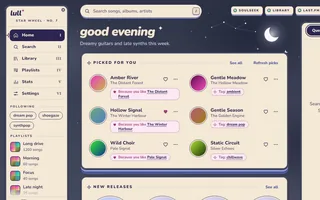
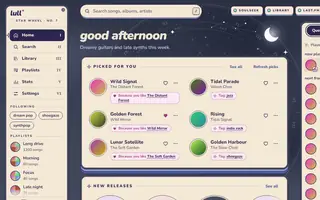
feat(web): Skydeck's sky is a whole star wheel and every page fills its window
The sky behind the app is now a planisphere (hour rim, month ring, constellations) drawn once in one ink as
an image, sized to the window and turning a quarter over the song, in the page's own layer. Home gets a star
finder card (slots/homeLead): the week as 24 hour spokes with the busiest hour starred and a needle at the song's
place, the queue as a constellation in a horizon window, and the date, shown from 1100 px of main width.

Fixes found in review at 1920 and 2560:
- Settings took 1180 px of a 2188 px page and left the right half empty: the section card now fills the page and
  sets its rows in as many columns as have 520 px (one on a laptop, two at 1920, three at 2560); Stats and Now
  Playing lift their width limits too, and Now Playing grows its wheel and gives the lyrics a column of their own
  from 1700 px.
- Shelves cut a cover or its words at the card edge: from 640 px a Home module now shows only as many whole tiles as its
  card has room for (92 px and up, so the covers stay in proportion with the rows), every other shelf wraps so nothing
  is hidden, and a phone shelf scrolls with a fade margin. The page also fades at its
  top edge under the header, so covers scrolling up are not sliced along it.
- The collapsed side panel stretched down the window as an empty strip; it is a card the height of its keys.
- The icon rail on a tablet stretched past its content the same way.
[…]

diff --git a/web/designs/skydeck/theme.css b/web/designs/skydeck/theme.css
@@ -51,6 +51,7 @@
     linear-gradient(180deg, #dcd5f7 0%, #e3daf7 38%, #efd9ec 66%, #f7dcd7 86%, #f9dfcb 100%);
   --sd-moon: url("assets/sky-day.svg");
   --sd-spark: url("assets/sparkle-pink.svg");
+  --sd-wheel-img: url("assets/sky-wheel-day.svg"); --sd-wheel-op: .2;
 }
 :root[data-design="skydeck"][data-theme="night"] {
   --stack-1: #8d9bd6; --stack-2: #4d5f9e;
@@ -69,11 +70,12 @@
     linear-gradient(180deg, #2f3446 0%, #393f53 35%, #414759 70%, #4a4a63 100%);
   --sd-moon: url("assets/sky-night.svg");
   --sd-spark: url("assets/sparkle-star.svg");
+  --sd-wheel-img: url("assets/sky-wheel-night.svg"); --sd-wheel-op: .2;
 }
 @media (max-width: 1099px) { :root[data-design="skydeck"] { --sd-moon-room: 130px; } }
 @media (max-width: 639px) { :root[data-design="skydeck"] { --sd-moon-room: 0px; } }
 /* every surface that is card: its own colours, so text on it pairs with it (the sky's are the page's) */
-:root[data-design="skydeck"] :is(.card, .rail, .ctx, .nowcol, .pbar, .mini, .tabbar, .sheet, .dialog, .menu, .popover, .toast, .sd-wheel, .sd-mini, .dk-strip, .dk-card) {
+:root[data-design="skydeck"] :is(.card, .rail, .ctx, .nowcol, .pbar, .mini, .tabbar, .sheet, .dialog, .menu, .popover, .toast, .sd-wheel, .sd-lead, .sd-mini, .dk-strip, .dk-card) {
   --bg: var(--cream); --bg-2: var(--cream-2); --fg: var(--sd-ink); --fg-2: var(--ink-2);
   --edge: var(--sd-ink); --link: var(--link-on-cream); --accent-ui: var(--sd-ink); --focus: var(--sd-pink); --heart: var(--sd-pink);
   --divider: var(--sd-faint); --seek-played: var(--sd-pink); --seek-buffered: #cdbfe8; --seek-line: var(--sd-ink);
@@ -92,8 +94,15 @@
    ===================================================================== */
 :root[data-design="skydeck"], :root[data-design="skydeck"] body { background: var(--sky); }
 :root[data-design="skydeck"] body { background: var(--sd-sky-bg) fixed; }
-:root[data-design="skydeck"] .sky-specks::before { opacity: .7; }
-:root[data-design="skydeck"][data-theme="night"] .sky-specks::before { opacity: 1; }
+/* the sky is a star wheel: a planisphere as big as the window lets it be, whole, printed in one ink behind everything and
+   turning a quarter round over the song (--song-pos, written on .sky-specks). It is the page's own layer, painted once;
+   a step of the song moves it, nothing else */
+:root[data-design="skydeck"] .sky-specks::before {
+  --d: min(calc(100vw - 48px), calc(100vh - var(--bar-h) - 24px), 1500px);
+  inset: auto; left: 50%; top: calc(50% - var(--bar-h) / 2); width: var(--d); height: var(--d); margin: calc(var(--d) / -2) 0 0 calc(var(--d) / -2);
+  background: var(--sd-wheel-img) center / contain no-repeat; opacity: var(--sd-wheel-op);
+  --song-pos: inherit; rotate: calc(var(--song-pos) * 90deg);
+}
 /* the stepped easings this design's loops use (components.css, Keyframes; scripts/loop-easings.mjs) */
 :root[data-design="skydeck"] {
   --loop-ease-in-out-70: linear(0 0%, 0 1.42857%, 0.0004 1.42857%, 0.0004 2.85714%, 0.0016 2.85714%, 0.0016 4.28571%, 0.0036 4.28571%, 0.0036 5.71429%, 0.0065 5.71429%, 0.0065 7.14286%, 0.0102 7.14286%, 0.0102 8.57143%, 0.0148 8.57143%, 0.0148 10%, 0.0203 10%, 0.0203 11.42857%, 0.0267 11.42857%, 0.0267 12.85714%, 0.0339 12.85714%, 0.0339 14.28571%, 0.0421 14.28571%, 0.0421 15.71429%, 0.0512 15.71429%, 0.0512 17.14286%, 0.0613 17.14286%, 0.0613 18.57143%, 0.0722 18.57143%, 0.0722 20%, 0.0841 20%, 0.0841 21.42857%, 0.0969 21.42857%, 0.0969 22.85714%, 0.1107 22.85714%, 0.1107 24.28571%, 0.1254 24.28571%, 0.1254 25.71429%, 0.1409 25.71429%, 0.1409 27.14286%, 0.1574 27.14286%, 0.1574 28.57143%, 0.1747 28.57143%, 0.1747 30%, 0.1929 30%, 0.1929 31.42857%, 0.212 31.42857%, 0.212 32.85714%, 0.2318 32.85714%, 0.2318 34.28571%, 0.2523 34.28571%, 0.2523 35.71429%, 0.2736 35.71429%, 0.2736 37.14286%, 0.2955 37.14286%, 0.2955 38.57143%, 0.3181 38.57143%, 0.3181 40%, 0.3412 40%, 0.3412 41.42857%, 0.3648 41.42857%, 0.3648 42.85714%, 0.3888 42.85714%, 0.3888 44.28571%, 0.4131 44.28571%, 0.4131 45.71429%, 0.4377 45.71429%, 0.4377 47.14286%, 0.4626 47.14286%, 0.4626 48.57143%, 0.4875 48.57143%, 0.4875 50%, 0.5125 50%, 0.5125 51.42857%, 0.5374 51.42857%, 0.5374 52.85714%, 0.5623 52.85714%, 0.5623 54.28571%, 0.5869 54.28571%, 0.5869 55.71429%, 0.6112 55.71429%, 0.6112 57.14286%, 0.6352 57.14286%, 0.6352 58.57143%, 0.6588 58.57143%, 0.6588 60%, 0.6819 60%, 0.6819 61.42857%, 0.7045 61.42857%, 0.7045 62.85714%, 0.7264 62.85714%, 0.7264 64.28571%, 0.7477 64.28571%, 0.7477 65.71429%, 0.7682 65.71429%, 0.7682 67.14286%, 0.788 67.14286%, 0.788 68.57143%, 0.8071 68.57143%, 0.8071 70%, 0.8253 70%, 0.8253 71.42857%, 0.8426 71.42857%, 0.8426 72.85714%, 0.8591 72.85714%, 0.8591 74.28571%, 0.8746 74.28571%, 0.8746 75.71429%, 0.8893 75.71429%, 0.8893 77.14286%, 0.9031 77.14286%, 0.9031 78.57143%, 0.9159 78.57143%, 0.9159 80%, 0.9278 80%, 0.9278 81.42857%, 0.9387 81.42857%, 0.9387 82.85714%, 0.9488 82.85714%, 0.9488 84.28571%, 0.9579 84.28571%, 0.9579 85.71429%, 0.9661 85.71429%, 0.9661 87.14286%, 0.9733 87.14286%, 0.9733 88.57143%, 0.9797 88.57143%, 0.9797 90%, 0.9852 90%, 0.9852 91.42857%, 0.9898 91.42857%, 0.9898 92.85714%, 0.9935 92.85714%, 0.9935 94.28571%, 0.9964 94.28571%, 0.9964 95.71429%, 0.9984 95.71429%, 0.9984 97.14286%, 0.9996 97.14286%, 0.9996 98.57143%, 1 98.57143%, 1 100%);
@@ -138,10 +147,18 @@
 @media (max-width: 639px) { :root[data-design="skydeck"] .main::before { display: none; } }
 /* the scrolling view dissolves into the sky at its bottom edge instead of slicing what runs on under the player bar;
    the fade is as tall as the view's bottom padding, so at the end of the page nothing is faded */
-@media (min-width: 640px) {
-  :root[data-design="skydeck"] .view {
-    -webkit-mask-image: linear-gradient(to bottom, #000 calc(100% - 40px), transparent);
-    mask-image: linear-gradient(to bottom, #000 calc(100% - 40px), transparent);
+/* and at its top edge, under the header: the page leaves 22 px of sky before its first line and fades in over the next 18,
+   so a cover scrolling up is never sliced flat along the header's foot (what is pinned in the view sticks at the padding's
+   foot, below the fade) */
+:root[data-design="skydeck"] .view {
+  padding-top: 22px;
+  -webkit-mask-image: linear-gradient(to bottom, transparent, #000 18px, #000 calc(100% - 40px), transparent);
+  mask-image: linear-gradient(to bottom, transparent, #000 18px, #000 calc(100% - 40px), transparent);
+}
+@media (max-width: 639px) {
+  :root[data-design="skydeck"] .view { padding-top: 16px; }
+  :root[data-design="skydeck"] .app[data-view="now"] .view {
+    padding-top: 0; -webkit-mask-image: linear-gradient(to bottom, #000 calc(100% - 40px), transparent); mask-image: linear-gradient(to bottom, #000 calc(100% - 40px), transparent);
   }
 }
 
@@ -160,6 +177,8 @@
 }
 /* while sound plays the pins' heads are lit pink, and rest again with it (:root[data-playing], written at play and pause) */
 :root[data-design="skydeck"][data-playing="true"] :is(.rail, .ctx) { --pin: #e58bbf; }
+/* the collapsed panel is a pinned card the height of its three keys, not a column down the window */
+:root[data-design="skydeck"] .app[data-panel="strip"] .ctx { align-self: start; height: auto; }
 :root[data-design="skydeck"] :is(.rail__head, .ctx__head) { background: none; box-shadow: none; border-bottom: 1.5px dotted var(--sd-soft); margin: 0 12px 6px; }
 :root[data-design="skydeck"] .rail__head { padding: 18px 8px 12px; flex-direction: column; align-items: flex-start; gap: 4px; }
 :root[data-design="skydeck"] .rail__head .brand { --wm-1: var(--sd-ink); --wm-spark: var(--sd-pink); }
@@ -197,6 +216,7 @@
 :root[data-design="skydeck"] .rail__foot { color: var(--ink-2); }
 /* the icon rail (tablet): no numerals, no printed name */
 @media (max-width: 1099px) {
+  :root[data-design="skydeck"] .rail { align-self: start; }
   :root[data-design="skydeck"] :is(.nav-item, .rail__head)::after { display: none; }
   :root[data-design="skydeck"] .rail__nav { padding: 4px 8px; }
   :root[data-design="skydeck"] .nav-item[aria-current="page"]::before { left: -9px; width: 14px; height: 14px; margin-top: -7px; }
@@ -310,6 +330,14 @@
   :root[data-design="skydeck"] :is(.card-head h2, .card .label-rule > h2) { letter-spacing: .04em; font-size: .75rem; gap: 5px; }
   :root[data-design="skydeck"] :is(.card-head h2, .card .label-rule > h2)::before { width: 12px; height: 12px; }
 }
+/* a card head with two links (Picked for you) on a phone: the title has its line, the links the next, never one link
+   left alone under a rule */
+@media (max-width: 639px) {
+  :root[data-design="skydeck"] .card-head:has(> .btn ~ .btn) { flex-wrap: wrap; row-gap: 2px; }
+  :root[data-design="skydeck"] .card-head:has(> .btn ~ .btn)::after { display: none; }
+  :root[data-design="skydeck"] .card-head:has(> .btn ~ .btn) > .card-head__title { flex: 1 0 100%; }
+  :root[data-design="skydeck"] .card-head:has(> .btn ~ .btn) > .btn:first-of-type { margin-left: -12px; }
+}
 :root[data-design="skydeck"] .chip-reason { border: 1px dashed var(--sd-pink); }
 /* chips (tags, follows, the equaliser's presets, Sources' formats) are printed slips of the card, ruled in ink, wherever
    they sit; a chip or filter pill that is on is inked in, as the menu's place and the segmented controls are */
@@ -381,6 +409,8 @@
 :root[data-design="skydeck"] .sys-bar { height: 10px; border-radius: 3px; background: var(--cream-2); box-shadow: inset 0 0 0 1px var(--sd-soft); }
 :root[data-design="skydeck"] .sys-bar > i { border-radius: 2px; background: var(--sd-ink); }
 :root[data-design="skydeck"] .sys-bars__row:first-child .sys-bar > i { background: var(--sd-pink); }
+/* the page takes the window it is given (the base stops it at 1180 px, which left half of a wide window empty) */
+:root[data-design="skydeck"] .sys-stats { max-width: 2200px; }
 /* five tiles in a row while each has room for its numeral, then 3 + 2, then two a row */
 @container main (max-width: 900px) {
   :root[data-design="skydeck"] .sys-tile__value { font-size: 1.875rem; }
@@ -398,6 +428,16 @@
   :root[data-design="skydeck"] .sys-tile__sub { white-space: nowrap; overflow: hidden; text-overflow: ellipsis; }
 }
 
+/* Settings uses the window it gets: the card grows with the page and sets its rows in as many columns as have room
+   (520 px and up each, so one on a laptop, two at 1920, three at 2560), read down each column; the sections' heads, the
+   design picker, the equaliser and the key lists keep the card's whole width. The menu stays beside it, pinned. */
+:root[data-design="skydeck"] .sys-settings { max-width: 2200px; }
+:root[data-design="skydeck"] .sys-settings .sys-section { columns: 520px; column-gap: 64px; }
+:root[data-design="skydeck"] .sys-settings .sys-section > :is(.label-rule, .sys-keys__groups, .sys-row:has(> .sys-row__ctl > .sys-designs)) { column-span: all; }
+:root[data-design="skydeck"] .sys-settings .sys-section :is(.sys-row, .sys-group, .sys-note, .eqp, .sys-packs > li, .hub-lib, .sys-usage, .inset) { break-inside: avoid; }
+:root[data-design="skydeck"] .sys-settings .sys-section .sys-group { break-after: avoid; }
+:root[data-design="skydeck"] .sys-settings .sys-designs { grid-template-columns: repeat(auto-fit, minmax(220px, 1fr)); }
+
 /* Settings: its menu inked like the rail's; the design picker's chosen card inked too */
 :root[data-design="skydeck"] .sys-nav a[aria-current="page"] { background: var(--sd-ink); color: var(--cream); border-color: var(--sd-ink); box-shadow: none; }
 :root[data-design="skydeck"] .sys-design[aria-checked="true"] { background: var(--cream-2); border-color: var(--sd-ink); box-shadow: 0 0 0 1.5px var(--sd-ink); }
@@ -413,6 +453,133 @@
   :root[data-design="skydeck"] .disc-home .disc-starter__play { width: 36px; height: 36px; }
 }
 :root[data-design="skydeck"] .disc-hello { margin-bottom: var(--sp-4); }
+/* shelves show only whole round windows, never one cut by the card's edge. From 640 px a shelf is a grid that fits as many
+   as the card has room for: a Home module sets its columns by its own width and shows that many tiles (its head has
+   See all or History for the rest), every other shelf (artist, album, search, library) wraps, so nothing is hidden;
+   tiles are 92 px and up, so the covers stay in proportion with the rows round them. On a phone a shelf scrolls, and
+   the last tile fades out along a margin of its own to say there is more that way */
+@media (min-width: 640px) {
+  :root[data-design="skydeck"] .shelf:not(.disc-shelf--grid) {
+    grid-auto-flow: row; grid-template-columns: repeat(auto-fill, minmax(116px, 1fr)); grid-auto-columns: auto; gap: var(--sp-4) var(--sp-5);
+    overflow: visible; scroll-snap-type: none; padding-right: 0;
+  }
+  :root[data-design="skydeck"] .disc-mod .disc-shelf:not(.disc-shelf--grid) { grid-template-columns: repeat(2, minmax(0, 1fr)); }
+  @container section (max-width: 357px) { :root[data-design="skydeck"] .disc-mod .disc-shelf:not(.disc-shelf--grid) { grid-template-columns: repeat(2, minmax(0, 1fr)); } :root[data-design="skydeck"] .disc-mod .disc-shelf:not(.disc-shelf--grid) > :nth-child(n+3) { display: none; } }
+  @container section (min-width: 358px) and (max-width: 465px) { :root[data-design="skydeck"] .disc-mod .disc-shelf:not(.disc-shelf--grid) { grid-template-columns: repeat(3, minmax(0, 1fr)); } :root[data-design="skydeck"] .disc-mod .disc-shelf:not(.disc-shelf--grid) > :nth-child(n+4) { display: none; } }
+  @container section (min-width: 466px) and (max-width: 573px) { :root[data-design="skydeck"] .disc-mod .disc-shelf:not(.disc-shelf--grid) { grid-template-columns: repeat(4, minmax(0, 1fr)); } :root[data-design="skydeck"] .disc-mod .disc-shelf:not(.disc-shelf--grid) > :nth-child(n+5) { display: none; } }
+  @container section (min-width: 574px) and (max-width: 681px) { :root[data-design="skydeck"] .disc-mod .disc-shelf:not(.disc-shelf--grid) { grid-template-columns: repeat(5, minmax(0, 1fr)); } :root[data-design="skydeck"] .disc-mod .disc-shelf:not(.disc-shelf--grid) > :nth-child(n+6) { display: none; } }
+  @container section (min-width: 682px) and (max-width: 789px) { :root[data-design="skydeck"] .disc-mod .disc-shelf:not(.disc-shelf--grid) { grid-template-columns: repeat(6, minmax(0, 1fr)); } :root[data-design="skydeck"] .disc-mod .disc-shelf:not(.disc-shelf--grid) > :nth-child(n+7) { display: none; } }
+  @container section (min-width: 790px) and (max-width: 897px) { :root[data-design="skydeck"] .disc-mod .disc-shelf:not(.disc-shelf--grid) { grid-template-columns: repeat(7, minmax(0, 1fr)); } :root[data-design="skydeck"] .disc-mod .disc-shelf:not(.disc-shelf--grid) > :nth-child(n+8) { display: none; } }
+  @container section (min-width: 898px) and (max-width: 1005px) { :root[data-design="skydeck"] .disc-mod .disc-shelf:not(.disc-shelf--grid) { grid-template-columns: repeat(8, minmax(0, 1fr)); } :root[data-design="skydeck"] .disc-mod .disc-shelf:not(.disc-shelf--grid) > :nth-child(n+9) { display: none; } }
+  @container section (min-width: 1006px) and (max-width: 1113px) { :root[data-design="skydeck"] .disc-mod .disc-shelf:not(.disc-shelf--grid) { grid-template-columns: repeat(9, minmax(0, 1fr)); } :root[data-design="skydeck"] .disc-mod .disc-shelf:not(.disc-shelf--grid) > :nth-child(n+10) { display: none; } }
+  @container section (min-width: 1114px) { :root[data-design="skydeck"] .disc-mod .disc-shelf:not(.disc-shelf--grid) { grid-template-columns: repeat(10, minmax(0, 1fr)); }  }
+}
+@media (max-width: 639px) {
+  :root[data-design="skydeck"] .disc-shelf:not(.disc-shelf--grid) {
+    padding-right: 48px; scroll-padding-right: 48px;
+    -webkit-mask-image: linear-gradient(to right, #000 calc(100% - 48px), transparent);
+    mask-image: linear-gradient(to right, #000 calc(100% - 48px), transparent);
+  }
+}
+
+/* Home's star finder (slots/homeLead.html): where the page is wide, the greeting and the finder share the top row, the
+   finder between the greeting and the sun or moon; narrower, the greeting has the row and the finder is not drawn */
+.disc-lead { display: none; }
+@container main (min-width: 1100px) {
+  :root[data-design="skydeck"] .disc-home { display: grid; grid-template-columns: max-content minmax(0, 1fr); column-gap: var(--sp-6); align-items: start; }
+  :root[data-design="skydeck"] .disc-home > .disc-hello { grid-column: 1; padding-right: 0; }
+  :root[data-design="skydeck"] .disc-home > .disc-modules { grid-column: 1 / -1; }
+  :root[data-design="skydeck"] .disc-home > .disc-lead { display: block; grid-column: 2; grid-row: 1; margin: 6px var(--sd-moon-room) var(--sp-5) 0; min-width: 0; container: sdlead / inline-size; }
+  :root[data-design="skydeck"] .disc-home > .disc-hello:only-child { grid-column: 1 / -1; padding-right: var(--sd-moon-room); }
+}
+:root[data-design="skydeck"] .sd-lead {
+  --song-pos: inherit; display: grid; grid-template-columns: 112px minmax(0, 1fr) minmax(150px, 230px) auto; align-items: center; gap: 4px 20px;
+  min-height: 116px; padding: 10px 24px 10px 14px; background: var(--cream); color: var(--sd-ink); border: 1.5px solid var(--sd-ink); border-radius: 26px;
+  box-shadow: var(--sd-rule), var(--sd-lift);
+}
+/* the week as the hour rim: 24 spokes from a ring, the busiest hour a star on its tip */
+:root[data-design="skydeck"] .sd-lead__dial { position: relative; width: 100px; height: 100px; justify-self: center; --song-pos: inherit; }
+:root[data-design="skydeck"] .sd-lead__dial::before {
+  content: ""; position: absolute; inset: 0; border-radius: 50%; box-shadow: inset 0 0 0 1.5px var(--sd-ink), inset 0 0 0 4px var(--cream), inset 0 0 0 5px var(--sd-soft);
+  background: repeating-conic-gradient(from -.4deg, var(--sd-ink) 0 .8deg, transparent .8deg 15deg);
+  -webkit-mask: radial-gradient(circle, transparent 0 41px, #000 41.5px 46px, transparent 46.5px); mask: radial-gradient(circle, transparent 0 41px, #000 41.5px 46px, transparent 46.5px);
+}
+/* the needle points at where the song is: a round of the dial is the song */
+:root[data-design="skydeck"] .sd-lead__dial::after {
+  content: ""; position: absolute; left: calc(50% - 1px); bottom: 50%; width: 2px; height: 42px; background: var(--sd-pink); transform-origin: 50% 100%;
+  --song-pos: inherit; rotate: calc(var(--song-pos) * 1turn);
+}
+:root[data-design="skydeck"] .sd-lead__hours { position: absolute; inset: 0; --song-pos: inherit; }
+/* the week not read yet: the spokes rest as stubs round the hub */
+:root[data-design="skydeck"] .sd-lead__hours::before {
+  content: ""; position: absolute; inset: 0; background: repeating-conic-gradient(from -.7deg, var(--sd-soft) 0 1.4deg, transparent 1.4deg 15deg);
+  -webkit-mask: radial-gradient(circle, transparent 0 13px, #000 13.5px 20px, transparent 20.5px); mask: radial-gradient(circle, transparent 0 13px, #000 13.5px 20px, transparent 20.5px);
+}
+:root[data-design="skydeck"] .sd-lead__hours i {
+  position: absolute; left: calc(50% - 1.5px); bottom: calc(50% + 14px); width: 3px; height: calc(3px + var(--v) * 22px); border-radius: 2px; background: var(--sd-ink);
+  transform-origin: 50% calc(100% + 14px);
+}
+:root[data-design="skydeck"] .sd-lead__hours i.is-peak { background: var(--sd-pink); }
+:root[data-design="skydeck"] .sd-lead__hours i.is-peak::after { content: ""; position: absolute; left: -6px; top: -14px; width: 15px; height: 15px; background: var(--sd-star) center / contain no-repeat; }
+:root[data-design="skydeck"] .sd-lead__hours i:nth-child(1) { rotate: 0deg; }
+:root[data-design="skydeck"] .sd-lead__hours i:nth-child(2) { rotate: 15deg; }
+:root[data-design="skydeck"] .sd-lead__hours i:nth-child(3) { rotate: 30deg; }
+:root[data-design="skydeck"] .sd-lead__hours i:nth-child(4) { rotate: 45deg; }
+:root[data-design="skydeck"] .sd-lead__hours i:nth-child(5) { rotate: 60deg; }
+:root[data-design="skydeck"] .sd-lead__hours i:nth-child(6) { rotate: 75deg; }
+:root[data-design="skydeck"] .sd-lead__hours i:nth-child(7) { rotate: 90deg; }
+:root[data-design="skydeck"] .sd-lead__hours i:nth-child(8) { rotate: 105deg; }
+:root[data-design="skydeck"] .sd-lead__hours i:nth-child(9) { rotate: 120deg; }
+:root[data-design="skydeck"] .sd-lead__hours i:nth-child(10) { rotate: 135deg; }
+:root[data-design="skydeck"] .sd-lead__hours i:nth-child(11) { rotate: 150deg; }
+:root[data-design="skydeck"] .sd-lead__hours i:nth-child(12) { rotate: 165deg; }
+:root[data-design="skydeck"] .sd-lead__hours i:nth-child(13) { rotate: 180deg; }
+:root[data-design="skydeck"] .sd-lead__hours i:nth-child(14) { rotate: 195deg; }
+:root[data-design="skydeck"] .sd-lead__hours i:nth-child(15) { rotate: 210deg; }
+:root[data-design="skydeck"] .sd-lead__hours i:nth-child(16) { rotate: 225deg; }
+:root[data-design="skydeck"] .sd-lead__hours i:nth-child(17) { rotate: 240deg; }
+:root[data-design="skydeck"] .sd-lead__hours i:nth-child(18) { rotate: 255deg; }
+:root[data-design="skydeck"] .sd-lead__hours i:nth-child(19) { rotate: 270deg; }
+:root[data-design="skydeck"] .sd-lead__hours i:nth-child(20) { rotate: 285deg; }
+:root[data-design="skydeck"] .sd-lead__hours i:nth-child(21) { rotate: 300deg; }
+:root[data-design="skydeck"] .sd-lead__hours i:nth-child(22) { rotate: 315deg; }
+:root[data-design="skydeck"] .sd-lead__hours i:nth-child(23) { rotate: 330deg; }
+:root[data-design="skydeck"] .sd-lead__hours i:nth-child(24) { rotate: 345deg; }
+/* the words */
+:root[data-design="skydeck"] .sd-lead__text { display: grid; gap: 2px; min-width: 0; }
+:root[data-design="skydeck"] .sd-lead__text p { margin: 0; min-width: 0; }
+:root[data-design="skydeck"] .sd-lead__kicker { display: flex; align-items: center; gap: 8px; font: var(--sd-caps); letter-spacing: .2em; text-transform: uppercase; color: var(--sd-pink); }
+:root[data-design="skydeck"] .sd-lead__kicker::before { content: ""; width: 13px; height: 13px; background: var(--sd-star) center / contain no-repeat; }
+:root[data-design="skydeck"] .sd-lead__now { font: 900 1.125rem/1.25 var(--f-ui); overflow: hidden; text-overflow: ellipsis; white-space: nowrap; }
+:root[data-design="skydeck"] .sd-lead__idle { display: none; font: 900 1.125rem/1.25 var(--f-ui); color: var(--ink-2); }
+:root[data-design="skydeck"] .sd-lead[data-status="idle"] .sd-lead__idle { display: block; }
+:root[data-design="skydeck"] .sd-lead[data-status="idle"] :is(.sd-lead__now, .sd-lead__next) { display: none; }
+:root[data-design="skydeck"] .sd-lead__line { display: flex; flex-wrap: wrap; gap: 0 12px; font: var(--t-meta); color: var(--fg-2); }
+:root[data-design="skydeck"] .sd-lead__next { min-width: 0; max-width: 100%; overflow: hidden; text-overflow: ellipsis; white-space: nowrap; }
+:root[data-design="skydeck"] .sd-lead__week { font: var(--sd-caps); letter-spacing: .1em; text-transform: uppercase; color: var(--ink-2); }
+:root[data-design="skydeck"] .sd-lead[data-week="false"] .sd-lead__week { display: none; }
+/* the horizon window: the queue as a constellation on the dark printed disc */
+:root[data-design="skydeck"] .sd-lead__window { --song-pos: inherit; align-self: stretch; display: grid; align-items: center; }
+:root[data-design="skydeck"] .sd-lead__map {
+  --song-pos: inherit; position: relative; height: 92px; border-radius: 50%; background: var(--sd-disc) 50% 40% / cover; box-shadow: 0 0 0 1.5px var(--sd-ink), 0 0 0 4px var(--cream), 0 0 0 5.5px var(--sd-ink);
+}
+:root[data-design="skydeck"] .sd-lead__map .sky-star { --song-pos: inherit; }
+:root[data-design="skydeck"] .sd-lead__stars { position: absolute; inset: 15px 34px; --song-pos: inherit; }
+:root[data-design="skydeck"] .sd-lead__map .sky-line { position: absolute; inset: 0; width: 100%; height: 100%; overflow: visible; }
+:root[data-design="skydeck"] .sd-lead__map .sky-line polyline { fill: none; stroke: #f2e3d199; stroke-width: 1.2; stroke-dasharray: 3 4; stroke-linecap: round; }
+/* the stars sit in the same inset box as the line, so a star is never on the window's rim */
+:root[data-design="skydeck"] .sd-lead__map .sky-star { position: absolute; width: 7px; height: 7px; margin: -3.5px; border-radius: 50%; background: #fff6e6; box-shadow: 0 0 0 3px #fff6e61f; }
+:root[data-design="skydeck"] .sd-lead__map .sky-star--now {
+  width: 30px; height: 30px; margin: -15px; border-radius: 0; box-shadow: none; background: var(--sd-star) center / contain no-repeat; rotate: calc(var(--song-pos) * .25turn);
+}
+/* the date: a numeral in the printed ring */
+:root[data-design="skydeck"] .sd-lead__date { margin: 0; display: grid; justify-items: center; align-content: center; gap: 1px; min-width: 76px; padding-left: 20px; border-left: 1.5px dotted var(--sd-soft); align-self: stretch; }
+:root[data-design="skydeck"] .sd-lead__date b { font: 900 2.25rem/1 var(--f-ui); letter-spacing: -.02em; }
+:root[data-design="skydeck"] .sd-lead__date span { font: var(--sd-caps); letter-spacing: .18em; text-transform: uppercase; color: var(--ink-2); }
+:root[data-design="skydeck"] .sd-lead__date span:first-of-type { color: var(--sd-pink); }
+/* the finder gives way to the room it has: first the date, then the window */
+@container sdlead (max-width: 700px) { :root[data-design="skydeck"] .sd-lead { grid-template-columns: 112px minmax(0, 1fr) minmax(130px, 200px); } :root[data-design="skydeck"] .sd-lead__date { display: none; } }
+@container sdlead (max-width: 520px) { :root[data-design="skydeck"] .sd-lead { grid-template-columns: 112px minmax(0, 1fr); } :root[data-design="skydeck"] .sd-lead__window { display: none; } }
 
 /* search: one compact top result, rows with one quiet line of facts, then the Soulseek section */
 @media (min-width: 640px) {
@@ -586,7 +753,7 @@
 /* =====================================================================
    11. Now Playing: the wheel (slots/nowHero.full.html, .compact.html)
    ===================================================================== */
-:root[data-design="skydeck"] .now { max-width: 1320px; }
+:root[data-design="skydeck"] .now { max-width: 2200px; }
 :root[data-design="skydeck"] .now__dev { position: relative; }
 :root[data-design="skydeck"] .sd-wheel {
   position: relative; display: grid; justify-items: center; gap: 10px; padding: 18px 22px 20px;
@@ -736,6 +903,27 @@
   }
   :root[data-design="skydeck"] .now-srccard .pipeline:not(:has(.is-done, .is-current, .is-failed)) { display: none; }
   :root[data-design="skydeck"] .now__keys { margin-top: 26px; }
+}
+/* wide pages: the wheel is the page's centre and grows with it (its bars and rim are drawn in the dial's own units); from
+   1700 px the lyrics take a column of their own beside the title, actions and source, so nothing is left in a corner */
+@container now (min-width: 1100px) {
+  :root[data-design="skydeck"] .now__grid { grid-template-columns: clamp(400px, 38%, 580px) minmax(0, 1fr); }
+  :root[data-design="skydeck"] .now-dev { max-width: none; }
+  :root[data-design="skydeck"] .sd-wheel { padding: 22px 28px 24px; gap: 14px; }
+  :root[data-design="skydeck"] .sd-dial { width: min(100%, 480px); }
+}
+@container now (min-width: 1700px) {
+  :root[data-design="skydeck"] .now__grid {
+    grid-template-columns: minmax(520px, 640px) minmax(0, 1fr) minmax(0, 1.1fr); grid-template-rows: auto auto auto 1fr;
+    grid-template-areas: "dev head ly" "dev acts ly" "dev src ly" "dev next ly";
+  }
+  :root[data-design="skydeck"] .sd-dial { width: min(100%, 560px); }
+  :root[data-design="skydeck"] .now-lycard { max-height: calc(100dvh - 190px); }
+}
+@container now (min-width: 2000px) {
+  :root[data-design="skydeck"] .now__grid { grid-template-columns: minmax(600px, 760px) minmax(0, 1fr) minmax(0, 1.1fr); column-gap: var(--sp-10); }
+  :root[data-design="skydeck"] .sd-dial { width: min(100%, 660px); }
+  :root[data-design="skydeck"] .sd-wheel { padding: 28px 36px 30px; gap: 18px; }
 }
 /* short windows: the wheel shrinks as one object */
 @media (min-width: 640px) and (max-height: 820px) { :root[data-design="skydeck"] .now__dev { zoom: .86; } }

diff --git a/web/designs/skydeck.js b/web/designs/skydeck.js
@@ -1,3 +1,3 @@
 /* skydeck: theme.json and slots/ in one script (designs.js loads it). Generated: edit those files, then
    LULL_WRITE_PACKAGES=1 cargo test -p lull-themes */
-Designs.add({"api":1,"author":"lull","description":"A star wheel printed in indigo ink on cream card, held up to a dusk or moonlit sky.","extends":null,"id":"skydeck","modes":["day","night"],"name":"Skydeck","preview":true,"shell":"rail","slots":["emptyArt","miniPlayer.device","nowHero.compact","nowHero.full"],"swatches":["#414759","#f4e8d6","#9c3f7e","#2b2550"]}, {"emptyArt":"<span class=\"sd-empty\" data-art=\"{{art}}\"><span class=\"sd-empty__disc\"></span><span class=\"sd-empty__needle\"></span></span>","miniPlayer.device":"<div class=\"dk-mini {{opaqueClass}}\" data-dk-player=\"device\"><section class=\"sd-mini\" aria-label=\"{{product}} mini player\" data-tauri-drag-region><div class=\"sd-mini__head\" data-tauri-drag-region><span class=\"sd-mini__cap\" aria-hidden=\"true\" data-tauri-drag-region>star wheel</span><button class=\"dk-mini__win\" data-dk=\"full\" aria-label=\"Open full window\" data-tip=\"Open full window\"><lull-part name=\"icon\" icon=\"expand\"></lull-part></button><button class=\"dk-mini__win\" data-dk=\"mini-close\" aria-label=\"Close mini player\" data-tip=\"Close mini player\"><lull-part name=\"icon\" icon=\"close\"></lull-part></button></div><div class=\"sd-mini__now\" data-tauri-drag-region><div data-dk-now aria-live=\"polite\"><div class=\"dk-mini__now\"><lull-part name=\"cover\" size=\"84\"></lull-part><div><div class=\"device__title\">{{title}}</div><div class=\"device__artist\">{{artist}}</div><div class=\"device__facts\"><span class=\"q-chip q-chip--{{quality}} q-chip--solid\">{{format}}</span></div></div></div></div></div><p class=\"sd-mini__times\"><b data-dk-pos>0:00</b><span data-dk-dur>0:00</span></p><lull-part name=\"wave\"></lull-part><div class=\"sd-mini__keys\"><button class=\"btn-icon btn-icon--bare\" data-dk=\"shuffle\" aria-label=\"Shuffle\" data-tip=\"Shuffle\" aria-pressed=\"false\"><lull-part name=\"icon\" icon=\"shuffle\"></lull-part></button><button class=\"btn-icon btn-icon--bare\" data-dk=\"previous\" aria-label=\"Previous\" data-tip=\"Previous\"><lull-part name=\"icon\" icon=\"prev\"></lull-part></button><button class=\"btn-gloss btn-gloss--52\" data-dk=\"play-pause\" aria-label=\"{{playLabel}}\" data-tip=\"{{playLabel}}\"><lull-part name=\"icon\" icon=\"{{playIcon}}\" cls=\"{{playIconClass}}\"></lull-part></button><button class=\"btn-icon btn-icon--bare\" data-dk=\"next\" aria-label=\"Next\" data-tip=\"Next\"><lull-part name=\"icon\" icon=\"next\"></lull-part></button><button class=\"btn-icon btn-icon--bare\" data-dk=\"repeat\" aria-label=\"Repeat\" data-tip=\"Repeat\" aria-pressed=\"false\"><lull-part name=\"icon\" icon=\"repeat\"></lull-part></button></div><div class=\"sd-mini__foot\"><button class=\"btn-icon btn-icon--bare {{likeClass}}\" data-dk=\"like\" aria-pressed=\"{{liked}}\" aria-label=\"Like\" data-tip=\"Like\"><lull-part name=\"icon\" icon=\"{{likeIcon}}\"></lull-part></button><span class=\"sd-mini__vol\"><button class=\"btn-icon btn-icon--bare\" data-dk=\"vol-down\" aria-label=\"Volume down\" data-tip=\"Volume down\"><lull-part name=\"icon\" icon=\"minus\"></lull-part></button><span data-dk-vol>vol</span><button class=\"btn-icon btn-icon--bare\" data-dk=\"vol-up\" aria-label=\"Volume up\" data-tip=\"Volume up\"><lull-part name=\"icon\" icon=\"plus\"></lull-part></button></span></div><div class=\"dk-mini__note\" aria-hidden=\"true\"></div></section></div>","nowHero.compact":"<div class=\"sd-wheel sd-wheel--compact now-devc\" role=\"group\" aria-label=\"Player\"><span class=\"sd-wheel__win\" data-now=\"c-art\"><lull-part name=\"cover\" size=\"56\"></lull-part></span><div class=\"sd-wheel__song\" data-now=\"c-screen\"><lull-part name=\"compact\" pick='[data-now=\"c-screen\"]' inner></lull-part></div><div class=\"sd-wheel__keys\"><button class=\"btn-icon btn-icon--bare\" data-act=\"prev\" aria-label=\"Previous (P)\" data-tip=\"Previous (P)\"><lull-part name=\"icon\" icon=\"prev\"></lull-part></button><span data-now=\"ca\"><lull-part name=\"play-button\" size=\"48\"></lull-part></span><button class=\"btn-icon btn-icon--bare\" data-act=\"next\" aria-label=\"Next (N)\" data-tip=\"Next (N)\"><lull-part name=\"icon\" icon=\"next\"></lull-part></button></div></div>","nowHero.full":"<div class=\"sd-wheel now-dev\" role=\"group\" aria-label=\"Now playing\"><p class=\"sd-wheel__cap\" aria-hidden=\"true\"><span>{{product}}</span> star wheel</p><div class=\"sd-dial\"><span class=\"sd-dial__rim\" aria-hidden=\"true\"></span><lull-part name=\"wave\" bars=\"60\"></lull-part><span class=\"sd-dial__art\" data-now=\"c-art\"><lull-part name=\"cover\" size=\"100%\"></lull-part></span></div><div class=\"sd-wheel__read\"><p class=\"sd-wheel__time\"><span data-bind=\"pos\">0:00</span><span class=\"sd-wheel__of\" aria-hidden=\"true\">of</span><span data-bind=\"dur\">0:00</span></p><p class=\"sd-wheel__facts\"><span class=\"sd-wheel__state\" data-now=\"state\"><lull-part name=\"state\"></lull-part></span><span class=\"device__facts\" data-now=\"facts\"><lull-part name=\"facts\"></lull-part></span></p></div><lull-part name=\"seek\" cls=\"sd-scale\"></lull-part><div class=\"sd-wheel__keys\" role=\"group\" aria-label=\"Transport\"><button class=\"btn-icon btn-icon--bare\" data-act=\"shuffle\" aria-label=\"Shuffle (S)\" data-tip=\"Shuffle (S)\" data-bind=\"shuffle\" aria-pressed=\"{{shuffle}}\"><lull-part name=\"icon\" icon=\"shuffle\"></lull-part></button><button class=\"btn-icon btn-icon--bare\" data-act=\"prev\" aria-label=\"Previous (P)\" data-tip=\"Previous (P)\"><lull-part name=\"icon\" icon=\"prev\"></lull-part></button><span data-now=\"a\"><lull-part name=\"play-button\" size=\"64\"></lull-part></span><button class=\"btn-icon btn-icon--bare\" data-act=\"next\" aria-label=\"Next (N)\" data-tip=\"Next (N)\"><lull-part name=\"icon\" icon=\"next\"></lull-part></button><button class=\"btn-icon btn-icon--bare\" data-act=\"repeat\" aria-label=\"{{repeatLabel}} (R)\" data-tip=\"{{repeatLabel}} (R)\" data-bind=\"repeat\" aria-pressed=\"{{repeatOn}}\"><lull-part name=\"icon\" icon=\"{{repeatIcon}}\"></lull-part></button></div><span class=\"sd-wheel__like\" data-now=\"b\"><lull-part name=\"like-button\" size=\"40\"></lull-part></span></div>"});
+Designs.add({"api":1,"author":"lull","description":"A star wheel printed in indigo ink on cream card, held up to a dusk or moonlit sky.","extends":null,"id":"skydeck","modes":["day","night"],"name":"Skydeck","preview":true,"shell":"rail","slots":["emptyArt","homeLead","miniPlayer.device","nowHero.compact","nowHero.full"],"swatches":["#414759","#f4e8d6","#9c3f7e","#2b2550"]}, {"emptyArt":"<span class=\"sd-empty\" data-art=\"{{art}}\"><span class=\"sd-empty__disc\"></span><span class=\"sd-empty__needle\"></span></span>","homeLead":"<section class=\"sd-lead\" data-status=\"{{status}}\" data-week=\"{{week}}\" aria-label=\"Tonight's star finder\"><div class=\"sd-lead__dial\" role=\"img\" aria-label=\"Listening by hour of day this week, most around {{weekPeak}}:00\"><span class=\"sd-lead__hours\"><lull-part name=\"week-clock\"></lull-part></span></div><div class=\"sd-lead__text\"><p class=\"sd-lead__kicker\">tonight's sky</p><p class=\"sd-lead__now\">{{title}}</p><p class=\"sd-lead__idle\">nothing charted yet</p><p class=\"sd-lead__line\"><span>{{queueCount}} songs, {{queueDuration}}</span><span class=\"sd-lead__next\">next: {{next}}</span></p><p class=\"sd-lead__week\">{{weekTime}}, {{weekPlays}} plays this week</p></div><div class=\"sd-lead__window\" aria-hidden=\"true\"><div class=\"sd-lead__map\"><div class=\"sd-lead__stars\"><lull-part name=\"queue-sky\"></lull-part></div></div></div><p class=\"sd-lead__date\" aria-label=\"{{weekday}} {{date}} {{month}}\"><b>{{date}}</b><span>{{month}}</span><span>{{weekday}}</span></p></section>","miniPlayer.device":"<div class=\"dk-mini {{opaqueClass}}\" data-dk-player=\"device\"><section class=\"sd-mini\" aria-label=\"{{product}} mini player\" data-tauri-drag-region><div class=\"sd-mini__head\" data-tauri-drag-region><span class=\"sd-mini__cap\" aria-hidden=\"true\" data-tauri-drag-region>star wheel</span><button class=\"dk-mini__win\" data-dk=\"full\" aria-label=\"Open full window\" data-tip=\"Open full window\"><lull-part name=\"icon\" icon=\"expand\"></lull-part></button><button class=\"dk-mini__win\" data-dk=\"mini-close\" aria-label=\"Close mini player\" data-tip=\"Close mini player\"><lull-part name=\"icon\" icon=\"close\"></lull-part></button></div><div class=\"sd-mini__now\" data-tauri-drag-region><div data-dk-now aria-live=\"polite\"><div class=\"dk-mini__now\"><lull-part name=\"cover\" size=\"84\"></lull-part><div><div class=\"device__title\">{{title}}</div><div class=\"device__artist\">{{artist}}</div><div class=\"device__facts\"><span class=\"q-chip q-chip--{{quality}} q-chip--solid\">{{format}}</span></div></div></div></div></div><p class=\"sd-mini__times\"><b data-dk-pos>0:00</b><span data-dk-dur>0:00</span></p><lull-part name=\"wave\"></lull-part><div class=\"sd-mini__keys\"><button class=\"btn-icon btn-icon--bare\" data-dk=\"shuffle\" aria-label=\"Shuffle\" data-tip=\"Shuffle\" aria-pressed=\"false\"><lull-part name=\"icon\" icon=\"shuffle\"></lull-part></button><button class=\"btn-icon btn-icon--bare\" data-dk=\"previous\" aria-label=\"Previous\" data-tip=\"Previous\"><lull-part name=\"icon\" icon=\"prev\"></lull-part></button><button class=\"btn-gloss btn-gloss--52\" data-dk=\"play-pause\" aria-label=\"{{playLabel}}\" data-tip=\"{{playLabel}}\"><lull-part name=\"icon\" icon=\"{{playIcon}}\" cls=\"{{playIconClass}}\"></lull-part></button><button class=\"btn-icon btn-icon--bare\" data-dk=\"next\" aria-label=\"Next\" data-tip=\"Next\"><lull-part name=\"icon\" icon=\"next\"></lull-part></button><button class=\"btn-icon btn-icon--bare\" data-dk=\"repeat\" aria-label=\"Repeat\" data-tip=\"Repeat\" aria-pressed=\"false\"><lull-part name=\"icon\" icon=\"repeat\"></lull-part></button></div><div class=\"sd-mini__foot\"><button class=\"btn-icon btn-icon--bare {{likeClass}}\" data-dk=\"like\" aria-pressed=\"{{liked}}\" aria-label=\"Like\" data-tip=\"Like\"><lull-part name=\"icon\" icon=\"{{likeIcon}}\"></lull-part></button><span class=\"sd-mini__vol\"><button class=\"btn-icon btn-icon--bare\" data-dk=\"vol-down\" aria-label=\"Volume down\" data-tip=\"Volume down\"><lull-part name=\"icon\" icon=\"minus\"></lull-part></button><span data-dk-vol>vol</span><button class=\"btn-icon btn-icon--bare\" data-dk=\"vol-up\" aria-label=\"Volume up\" data-tip=\"Volume up\"><lull-part name=\"icon\" icon=\"plus\"></lull-part></button></span></div><div class=\"dk-mini__note\" aria-hidden=\"true\"></div></section></div>","nowHero.compact":"<div class=\"sd-wheel sd-wheel--compact now-devc\" role=\"group\" aria-label=\"Player\"><span class=\"sd-wheel__win\" data-now=\"c-art\"><lull-part name=\"cover\" size=\"56\"></lull-part></span><div class=\"sd-wheel__song\" data-now=\"c-screen\"><lull-part name=\"compact\" pick='[data-now=\"c-screen\"]' inner></lull-part></div><div class=\"sd-wheel__keys\"><button class=\"btn-icon btn-icon--bare\" data-act=\"prev\" aria-label=\"Previous (P)\" data-tip=\"Previous (P)\"><lull-part name=\"icon\" icon=\"prev\"></lull-part></button><span data-now=\"ca\"><lull-part name=\"play-button\" size=\"48\"></lull-part></span><button class=\"btn-icon btn-icon--bare\" data-act=\"next\" aria-label=\"Next (N)\" data-tip=\"Next (N)\"><lull-part name=\"icon\" icon=\"next\"></lull-part></button></div></div>","nowHero.full":"<div class=\"sd-wheel now-dev\" role=\"group\" aria-label=\"Now playing\"><p class=\"sd-wheel__cap\" aria-hidden=\"true\"><span>{{product}}</span> star wheel</p><div class=\"sd-dial\"><span class=\"sd-dial__rim\" aria-hidden=\"true\"></span><lull-part name=\"wave\" bars=\"60\"></lull-part><span class=\"sd-dial__art\" data-now=\"c-art\"><lull-part name=\"cover\" size=\"100%\"></lull-part></span></div><div class=\"sd-wheel__read\"><p class=\"sd-wheel__time\"><span data-bind=\"pos\">0:00</span><span class=\"sd-wheel__of\" aria-hidden=\"true\">of</span><span data-bind=\"dur\">0:00</span></p><p class=\"sd-wheel__facts\"><span class=\"sd-wheel__state\" data-now=\"state\"><lull-part name=\"state\"></lull-part></span><span class=\"device__facts\" data-now=\"facts\"><lull-part name=\"facts\"></lull-part></span></p></div><lull-part name=\"seek\" cls=\"sd-scale\"></lull-part><div class=\"sd-wheel__keys\" role=\"group\" aria-label=\"Transport\"><button class=\"btn-icon btn-icon--bare\" data-act=\"shuffle\" aria-label=\"Shuffle (S)\" data-tip=\"Shuffle (S)\" data-bind=\"shuffle\" aria-pressed=\"{{shuffle}}\"><lull-part name=\"icon\" icon=\"shuffle\"></lull-part></button><button class=\"btn-icon btn-icon--bare\" data-act=\"prev\" aria-label=\"Previous (P)\" data-tip=\"Previous (P)\"><lull-part name=\"icon\" icon=\"prev\"></lull-part></button><span data-now=\"a\"><lull-part name=\"play-button\" size=\"64\"></lull-part></span><button class=\"btn-icon btn-icon--bare\" data-act=\"next\" aria-label=\"Next (N)\" data-tip=\"Next (N)\"><lull-part name=\"icon\" icon=\"next\"></lull-part></button><button class=\"btn-icon btn-icon--bare\" data-act=\"repeat\" aria-label=\"{{repeatLabel}} (R)\" data-tip=\"{{repeatLabel}} (R)\" data-bind=\"repeat\" aria-pressed=\"{{repeatOn}}\"><lull-part name=\"icon\" icon=\"{{repeatIcon}}\"></lull-part></button></div><span class=\"sd-wheel__like\" data-now=\"b\"><lull-part name=\"like-button\" size=\"40\"></lull-part></span></div>"});

diff --git a/web/designs/skydeck/slots/homeLead.html b/web/designs/skydeck/slots/homeLead.html
@@ -1,0 +1,19 @@
+<!-- Home's star finder: one printed card between the greeting and the shelves, shown where the page is wide enough
+     (theme.css). The week is the hour rim, 24 spokes lit by how much was played at that hour, the busiest with a star, and the needle
+     is where the song is;
+     the queue is a constellation in the horizon window, the song playing the star that turns; the day is the date ring.
+     Decorative except its words: the dial says the busiest hour, the queue panel lists the songs. -->
+<section class="sd-lead" data-status="{{status}}" data-week="{{week}}" aria-label="Tonight's star finder">
+  <div class="sd-lead__dial" role="img" aria-label="Listening by hour of day this week, most around {{weekPeak}}:00">
+    <span class="sd-lead__hours"><lull-part name="week-clock"></lull-part></span>
+  </div>
+  <div class="sd-lead__text">
+    <p class="sd-lead__kicker">tonight's sky</p>
+    <p class="sd-lead__now">{{title}}</p>
+    <p class="sd-lead__idle">nothing charted yet</p>
+    <p class="sd-lead__line"><span>{{queueCount}} songs, {{queueDuration}}</span><span class="sd-lead__next">next: {{next}}</span></p>
+    <p class="sd-lead__week">{{weekTime}}, {{weekPlays}} plays this week</p>
+  </div>
+  <div class="sd-lead__window" aria-hidden="true"><div class="sd-lead__map"><div class="sd-lead__stars"><lull-part name="queue-sky"></lull-part></div></div></div>
+  <p class="sd-lead__date" aria-label="{{weekday}} {{date}} {{month}}"><b>{{date}}</b><span>{{month}}</span><span>{{weekday}}</span></p>
+</section>
